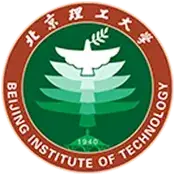
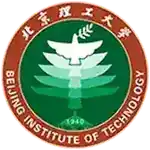
fix: further compress city thumbnails and resize to 150x150
Resize city images from 175x175 to 150x150 (displayed at ~100px,
1.5x retina coverage) and recompress for additional savings.

https://claude.ai/code/session_0191ui6wAtvbYWk5N1sxDhGg

diff --git a/ar/home.html b/ar/home.html
@@ -2557,28 +2557,28 @@
 <div class="container">
 <div class="universities">
 <div class="image">
-<img alt="Foorsa - Study in China services" loading="lazy" src="../uploads/2024/06/beijing-1.webp" width="175" height="175"/>
+<img alt="Foorsa - Study in China services" loading="lazy" src="../uploads/2024/06/beijing-1.webp" width="150" height="150"/>
 </div>
 <div class="image">
-<img alt="Foorsa - Study in China services" loading="lazy" src="../uploads/2024/06/ch-1.webp" width="175" height="175"/>
+<img alt="Foorsa - Study in China services" loading="lazy" src="../uploads/2024/06/ch-1.webp" width="150" height="150"/>
 </div>
 <div class="image">
-<img alt="Foorsa - Study in China services" loading="lazy" src="../uploads/2024/06/linyi-1.webp" width="175" height="175"/>
+<img alt="Foorsa - Study in China services" loading="lazy" src="../uploads/2024/06/linyi-1.webp" width="150" height="150"/>
 </div>
 <div class="image">
-<img alt="Foorsa - Study in China services" loading="lazy" src="../uploads/2024/06/nanjing-1.webp" width="175" height="175"/>
+<img alt="Foorsa - Study in China services" loading="lazy" src="../uploads/2024/06/nanjing-1.webp" width="150" height="150"/>
 </div>
 <div class="image">
-<img alt="Foorsa - Study in China services" loading="lazy" src="../uploads/2024/06/ningbo-1.webp" width="175" height="175"/>
+<img alt="Foorsa - Study in China services" loading="lazy" src="../uploads/2024/06/ningbo-1.webp" width="150" height="150"/>
 </div>
 <div class="image">
-<img alt="Foorsa - Study in China services" loading="lazy" src="../uploads/2024/06/perto-1.webp" width="175" height="175"/>
+<img alt="Foorsa - Study in China services" loading="lazy" src="../uploads/2024/06/perto-1.webp" width="150" height="150"/>
 </div>
 <div class="image">
-<img alt="Foorsa - Study in China services" loading="lazy" src="../uploads/2024/06/sand-1.webp" width="175" height="175"/>
+<img alt="Foorsa - Study in China services" loading="lazy" src="../uploads/2024/06/sand-1.webp" width="150" height="150"/>
 </div>
 <div class="image">
-<img alt="Foorsa - Study in China services" loading="lazy" src="../uploads/2024/06/shandong-1.webp" width="175" height="175"/>
+<img alt="Foorsa - Study in China services" loading="lazy" src="../uploads/2024/06/shandong-1.webp" width="150" height="150"/>
 </div>
 </div>
 </div>

diff --git a/ar/index.html b/ar/index.html
@@ -2989,28 +2989,28 @@
 <div class="container">
 <div class="universities">
 <div class="image">
-<img alt="Foorsa - Study in China services" loading="lazy" src="../uploads/2024/06/beijing-1.webp" width="175" height="175"/>
+<img alt="Foorsa - Study in China services" loading="lazy" src="../uploads/2024/06/beijing-1.webp" width="150" height="150"/>
 </div>
 <div class="image">
-<img alt="Foorsa - Study in China services" loading="lazy" src="../uploads/2024/06/ch-1.webp" width="175" height="175"/>
+<img alt="Foorsa - Study in China services" loading="lazy" src="../uploads/2024/06/ch-1.webp" width="150" height="150"/>
 </div>
 <div class="image">
-<img alt="Foorsa - Study in China services" loading="lazy" src="../uploads/2024/06/linyi-1.webp" width="175" height="175"/>
+<img alt="Foorsa - Study in China services" loading="lazy" src="../uploads/2024/06/linyi-1.webp" width="150" height="150"/>
 </div>
 <div class="image">
-<img alt="Foorsa - Study in China services" loading="lazy" src="../uploads/2024/06/nanjing-1.webp" width="175" height="175"/>
+<img alt="Foorsa - Study in China services" loading="lazy" src="../uploads/2024/06/nanjing-1.webp" width="150" height="150"/>
 </div>
 <div class="image">
-<img alt="Foorsa - Study in China services" loading="lazy" src="../uploads/2024/06/ningbo-1.webp" width="175" height="175"/>
+<img alt="Foorsa - Study in China services" loading="lazy" src="../uploads/2024/06/ningbo-1.webp" width="150" height="150"/>
 </div>
 <div class="image">
-<img alt="Foorsa - Study in China services" loading="lazy" src="../uploads/2024/06/perto-1.webp" width="175" height="175"/>
+<img alt="Foorsa - Study in China services" loading="lazy" src="../uploads/2024/06/perto-1.webp" width="150" height="150"/>
 </div>
 <div class="image">
-<img alt="Foorsa - Study in China services" loading="lazy" src="../uploads/2024/06/sand-1.webp" width="175" height="175"/>
+<img alt="Foorsa - Study in China services" loading="lazy" src="../uploads/2024/06/sand-1.webp" width="150" height="150"/>
 </div>
 <div class="image">
-<img alt="Foorsa - Study in China services" loading="lazy" src="../uploads/2024/06/shandong-1.webp" width="175" height="175"/>
+<img alt="Foorsa - Study in China services" loading="lazy" src="../uploads/2024/06/shandong-1.webp" width="150" height="150"/>
 </div>
 </div>
 </div>

diff --git a/fr/home.html b/fr/home.html
@@ -2513,28 +2513,28 @@
 <div class="container">
 <div class="universities">
 <div class="image">
-<img alt="Foorsa - Study in China services" loading="lazy" src="../uploads/2024/06/beijing-1.webp" width="175" height="175"/>
+<img alt="Foorsa - Study in China services" loading="lazy" src="../uploads/2024/06/beijing-1.webp" width="150" height="150"/>
 </div>
 <div class="image">
-<img alt="Foorsa - Study in China services" loading="lazy" src="../uploads/2024/06/ch-1.webp" width="175" height="175"/>
+<img alt="Foorsa - Study in China services" loading="lazy" src="../uploads/2024/06/ch-1.webp" width="150" height="150"/>
 </div>
 <div class="image">
-<img alt="Foorsa - Study in China services" loading="lazy" src="../uploads/2024/06/linyi-1.webp" width="175" height="175"/>
+<img alt="Foorsa - Study in China services" loading="lazy" src="../uploads/2024/06/linyi-1.webp" width="150" height="150"/>
 </div>
 <div class="image">
-<img alt="Foorsa - Study in China services" loading="lazy" src="../uploads/2024/06/nanjing-1.webp" width="175" height="175"/>
+<img alt="Foorsa - Study in China services" loading="lazy" src="../uploads/2024/06/nanjing-1.webp" width="150" height="150"/>
 </div>
 <div class="image">
-<img alt="Foorsa - Study in China services" loading="lazy" src="../uploads/2024/06/ningbo-1.webp" width="175" height="175"/>
+<img alt="Foorsa - Study in China services" loading="lazy" src="../uploads/2024/06/ningbo-1.webp" width="150" height="150"/>
 </div>
 <div class="image">
-<img alt="Foorsa - Study in China services" loading="lazy" src="../uploads/2024/06/perto-1.webp" width="175" height="175"/>
+<img alt="Foorsa - Study in China services" loading="lazy" src="../uploads/2024/06/perto-1.webp" width="150" height="150"/>
 </div>
 <div class="image">
-<img alt="Foorsa - Study in China services" loading="lazy" src="../uploads/2024/06/sand-1.webp" width="175" height="175"/>
+<img alt="Foorsa - Study in China services" loading="lazy" src="../uploads/2024/06/sand-1.webp" width="150" height="150"/>
 </div>
 <div class="image">
-<img alt="Foorsa - Study in China services" loading="lazy" src="../uploads/2024/06/shandong-1.webp" width="175" height="175"/>
+<img alt="Foorsa - Study in China services" loading="lazy" src="../uploads/2024/06/shandong-1.webp" width="150" height="150"/>
 </div>
 </div>
 </div>

diff --git a/fr/index.html b/fr/index.html
@@ -2945,28 +2945,28 @@
 <div class="container">
 <div class="universities">
 <div class="image">
-<img alt="Foorsa - Study in China services" loading="lazy" src="../uploads/2024/06/beijing-1.webp" width="175" height="175"/>
+<img alt="Foorsa - Study in China services" loading="lazy" src="../uploads/2024/06/beijing-1.webp" width="150" height="150"/>
 </div>
 <div class="image">
-<img alt="Foorsa - Study in China services" loading="lazy" src="../uploads/2024/06/ch-1.webp" width="175" height="175"/>
+<img alt="Foorsa - Study in China services" loading="lazy" src="../uploads/2024/06/ch-1.webp" width="150" height="150"/>
 </div>
 <div class="image">
-<img alt="Foorsa - Study in China services" loading="lazy" src="../uploads/2024/06/linyi-1.webp" width="175" height="175"/>
+<img alt="Foorsa - Study in China services" loading="lazy" src="../uploads/2024/06/linyi-1.webp" width="150" height="150"/>
 </div>
 <div class="image">
-<img alt="Foorsa - Study in China services" loading="lazy" src="../uploads/2024/06/nanjing-1.webp" width="175" height="175"/>
+<img alt="Foorsa - Study in China services" loading="lazy" src="../uploads/2024/06/nanjing-1.webp" width="150" height="150"/>
 </div>
 <div class="image">
-<img alt="Foorsa - Study in China services" loading="lazy" src="../uploads/2024/06/ningbo-1.webp" width="175" height="175"/>
+<img alt="Foorsa - Study in China services" loading="lazy" src="../uploads/2024/06/ningbo-1.webp" width="150" height="150"/>
 </div>
 <div class="image">
-<img alt="Foorsa - Study in China services" loading="lazy" src="../uploads/2024/06/perto-1.webp" width="175" height="175"/>
+<img alt="Foorsa - Study in China services" loading="lazy" src="../uploads/2024/06/perto-1.webp" width="150" height="150"/>
 </div>
 <div class="image">
-<img alt="Foorsa - Study in China services" loading="lazy" src="../uploads/2024/06/sand-1.webp" width="175" height="175"/>
+<img alt="Foorsa - Study in China services" loading="lazy" src="../uploads/2024/06/sand-1.webp" width="150" height="150"/>
 </div>
 <div class="image">
-<img alt="Foorsa - Study in China services" loading="lazy" src="../uploads/2024/06/shandong-1.webp" width="175" height="175"/>
+<img alt="Foorsa - Study in China services" loading="lazy" src="../uploads/2024/06/shandong-1.webp" width="150" height="150"/>
 </div>
 </div>
 </div>

diff --git a/en/home.html b/en/home.html
@@ -2451,28 +2451,28 @@
 <div class="container">
 <div class="universities">
 <div class="image">
-<img alt="Foorsa - Study in China services" loading="lazy" src="./uploads/2024/06/beijing-1.webp" width="175" height="175"/>
+<img alt="Foorsa - Study in China services" loading="lazy" src="./uploads/2024/06/beijing-1.webp" width="150" height="150"/>
 </div>
 <div class="image">
-<img alt="Foorsa - Study in China services" loading="lazy" src="./uploads/2024/06/ch-1.webp" width="175" height="175"/>
+<img alt="Foorsa - Study in China services" loading="lazy" src="./uploads/2024/06/ch-1.webp" width="150" height="150"/>
 </div>
 <div class="image">
-<img alt="Foorsa - Study in China services" loading="lazy" src="./uploads/2024/06/linyi-1.webp" width="175" height="175"/>
+<img alt="Foorsa - Study in China services" loading="lazy" src="./uploads/2024/06/linyi-1.webp" width="150" height="150"/>
 </div>
 <div class="image">
-<img alt="Foorsa - Study in China services" loading="lazy" src="./uploads/2024/06/nanjing-1.webp" width="175" height="175"/>
+<img alt="Foorsa - Study in China services" loading="lazy" src="./uploads/2024/06/nanjing-1.webp" width="150" height="150"/>
 </div>
 <div class="image">
-<img alt="Foorsa - Study in China services" loading="lazy" src="./uploads/2024/06/ningbo-1.webp" width="175" height="175"/>
+<img alt="Foorsa - Study in China services" loading="lazy" src="./uploads/2024/06/ningbo-1.webp" width="150" height="150"/>
 </div>
 <div class="image">
-<img alt="Foorsa - Study in China services" loading="lazy" src="./uploads/2024/06/perto-1.webp" width="175" height="175"/>
+<img alt="Foorsa - Study in China services" loading="lazy" src="./uploads/2024/06/perto-1.webp" width="150" height="150"/>
 </div>
 <div class="image">
-<img alt="Foorsa - Study in China services" loading="lazy" src="./uploads/2024/06/sand-1.webp" width="175" height="175"/>
+<img alt="Foorsa - Study in China services" loading="lazy" src="./uploads/2024/06/sand-1.webp" width="150" height="150"/>
 </div>
 <div class="image">
-<img alt="Foorsa - Study in China services" loading="lazy" src="./uploads/2024/06/shandong-1.webp" width="175" height="175"/>
+<img alt="Foorsa - Study in China services" loading="lazy" src="./uploads/2024/06/shandong-1.webp" width="150" height="150"/>
 </div>
 </div>
 </div>

diff --git a/en/index.html b/en/index.html
@@ -2986,28 +2986,28 @@
 <div class="container">
 <div class="universities">
 <div class="image">
-<img alt="Foorsa - Study in China services" loading="lazy" src="./uploads/2024/06/beijing-1.webp" width="175" height="175"/>
+<img alt="Foorsa - Study in China services" loading="lazy" src="./uploads/2024/06/beijing-1.webp" width="150" height="150"/>
 </div>
 <div class="image">
-<img alt="Foorsa - Study in China services" loading="lazy" src="./uploads/2024/06/ch-1.webp" width="175" height="175"/>
+<img alt="Foorsa - Study in China services" loading="lazy" src="./uploads/2024/06/ch-1.webp" width="150" height="150"/>
 </div>
 <div class="image">
-<img alt="Foorsa - Study in China services" loading="lazy" src="./uploads/2024/06/linyi-1.webp" width="175" height="175"/>
+<img alt="Foorsa - Study in China services" loading="lazy" src="./uploads/2024/06/linyi-1.webp" width="150" height="150"/>
 </div>
 <div class="image">
-<img alt="Foorsa - Study in China services" loading="lazy" src="./uploads/2024/06/nanjing-1.webp" width="175" height="175"/>
+<img alt="Foorsa - Study in China services" loading="lazy" src="./uploads/2024/06/nanjing-1.webp" width="150" height="150"/>
 </div>
 <div class="image">
-<img alt="Foorsa - Study in China services" loading="lazy" src="./uploads/2024/06/ningbo-1.webp" width="175" height="175"/>
+<img alt="Foorsa - Study in China services" loading="lazy" src="./uploads/2024/06/ningbo-1.webp" width="150" height="150"/>
 </div>
 <div class="image">
-<img alt="Foorsa - Study in China services" loading="lazy" src="./uploads/2024/06/perto-1.webp" width="175" height="175"/>
+<img alt="Foorsa - Study in China services" loading="lazy" src="./uploads/2024/06/perto-1.webp" width="150" height="150"/>
 </div>
 <div class="image">
-<img alt="Foorsa - Study in China services" loading="lazy" src="./uploads/2024/06/sand-1.webp" width="175" height="175"/>
+<img alt="Foorsa - Study in China services" loading="lazy" src="./uploads/2024/06/sand-1.webp" width="150" height="150"/>
 </div>
 <div class="image">
-<img alt="Foorsa - Study in China services" loading="lazy" src="./uploads/2024/06/shandong-1.webp" width="175" height="175"/>
+<img alt="Foorsa - Study in China services" loading="lazy" src="./uploads/2024/06/shandong-1.webp" width="150" height="150"/>
 </div>
 </div>
 </div>

diff --git a/index.html b/index.html
@@ -2862,28 +2862,28 @@
 <div class="container">
 <div class="universities">
 <div class="image">
-<img alt="Foorsa - Study in China services" loading="lazy" src="./uploads/2024/06/beijing-1.webp" width="175" height="175"/>
+<img alt="Foorsa - Study in China services" loading="lazy" src="./uploads/2024/06/beijing-1.webp" width="150" height="150"/>
 </div>
 <div class="image">
-<img alt="Foorsa - Study in China services" loading="lazy" src="./uploads/2024/06/ch-1.webp" width="175" height="175"/>
+<img alt="Foorsa - Study in China services" loading="lazy" src="./uploads/2024/06/ch-1.webp" width="150" height="150"/>
 </div>
 <div class="image">
-<img alt="Foorsa - Study in China services" loading="lazy" src="./uploads/2024/06/linyi-1.webp" width="175" height="175"/>
+<img alt="Foorsa - Study in China services" loading="lazy" src="./uploads/2024/06/linyi-1.webp" width="150" height="150"/>
 </div>
 <div class="image">
-<img alt="Foorsa - Study in China services" loading="lazy" src="./uploads/2024/06/nanjing-1.webp" width="175" height="175"/>
+<img alt="Foorsa - Study in China services" loading="lazy" src="./uploads/2024/06/nanjing-1.webp" width="150" height="150"/>
 </div>
 <div class="image">
-<img alt="Foorsa - Study in China services" loading="lazy" src="./uploads/2024/06/ningbo-1.webp" width="175" height="175"/>
+<img alt="Foorsa - Study in China services" loading="lazy" src="./uploads/2024/06/ningbo-1.webp" width="150" height="150"/>
 </div>
 <div class="image">
-<img alt="Foorsa - Study in China services" loading="lazy" src="./uploads/2024/06/perto-1.webp" width="175" height="175"/>
+<img alt="Foorsa - Study in China services" loading="lazy" src="./uploads/2024/06/perto-1.webp" width="150" height="150"/>
 </div>
 <div class="image">
-<img alt="Foorsa - Study in China services" loading="lazy" src="./uploads/2024/06/sand-1.webp" width="175" height="175"/>
+<img alt="Foorsa - Study in China services" loading="lazy" src="./uploads/2024/06/sand-1.webp" width="150" height="150"/>
 </div>
 <div class="image">
-<img alt="Foorsa - Study in China services" loading="lazy" src="./uploads/2024/06/shandong-1.webp" width="175" height="175"/>
+<img alt="Foorsa - Study in China services" loading="lazy" src="./uploads/2024/06/shandong-1.webp" width="150" height="150"/>
 </div>
 </div>
 </div>
